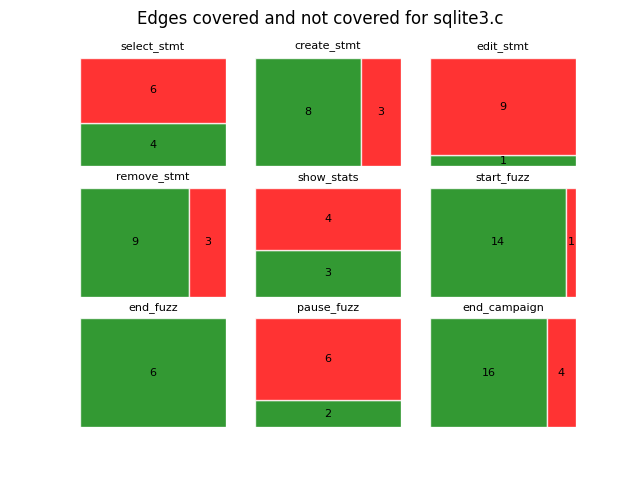
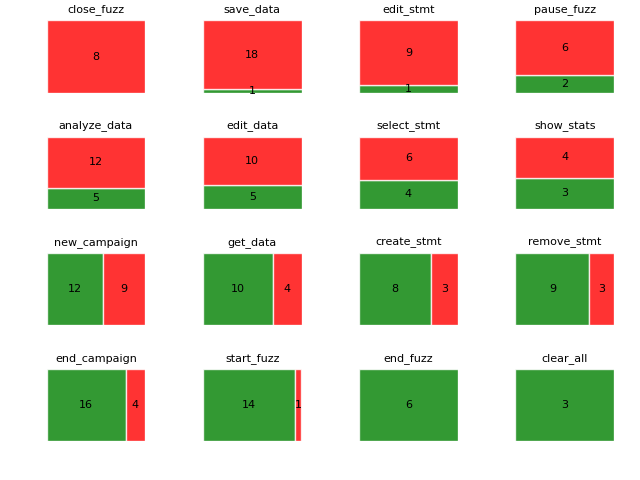
Fix plot sorting, adjust plots in 2x2 matrix order

diff --git a/treemaps/treemaps_fuzzing.py b/treemaps/treemaps_fuzzing.py
@@ -1,4 +1,5 @@
 import sys
+import math
 import matplotlib
 import matplotlib.pyplot as plt
 import pandas as pd
@@ -8,30 +9,47 @@ import squarify
 COVERAGE_DATA_FILE = sys.argv[1]
 
 def plotGraph(values, label, ax, fileName):
-    ax.axis('off')
     ax.set_title(label, fontsize='8')
-    squarify.plot(sizes=values, alpha=0.8, edgecolor="white", value=values, ax=ax, color=['g', 'r'], text_kwargs={'fontsize':8})
-    plt.savefig(fileName)
-    
+    is_value_covered_0 = values[0] == 0
+    is_value_not_covered_0 = values[1] == 0
+    values = [values[1]] if is_value_covered_0 else [values[0]] if is_value_not_covered_0 else values
+    colors = ['r'] if is_value_covered_0 else ['g'] if is_value_not_covered_0 else ['g', 'r']
+    # plt.subplots_adjust(right=0.9)
+    squarify.plot(sizes=values, alpha=0.8, edgecolor="white", value=values, ax=ax, color=colors, text_kwargs={'fontsize':8})
+    # plt.savefig(fileName)
+
 # Get edge data
 df = pd.read_csv(COVERAGE_DATA_FILE, engine='python')
 df.columns = df.columns.str.replace('# ', '')
 df = df[df['edges_total'] != 0]
+df['edges_not_covered'] = df['edges_total'] - df['edges_covered']
+df['percent_covered'] = df['edges_covered']/df['edges_total']
+df['percent_not_covered'] = df['edges_not_covered']/df['edges_total']
+df = df.sort_values('percent_not_covered', ascending=False)
+
 edges_covered = df['edges_covered'].values
 edges_covered_copy = edges_covered[edges_covered != 0]
 edges_total = df['edges_total'].values
-edges_not_covered = edges_total - edges_covered
+edges_not_covered = df['edges_not_covered'].values
 labels = df['function'].values
 file_name = df['file'].iloc[0]
+n_rows_df = len(df)
 
 # Treemap: edges covered in green, edges not covered in red
-fig, axs = plt.subplots(3, 3)
+n_rows_plot = round(math.sqrt(n_rows_df))
+n_columns_plot = math.ceil(math.sqrt(n_rows_df))
+fig, axs = plt.subplots(n_rows_plot, n_columns_plot, constrained_layout=True)
+# fig.tight_layout()
+
+for ax1 in axs:
+    for ax2 in ax1:
+        ax2.axis('off')
 fig.suptitle('Edges covered and not covered for ' + file_name)
 
-for index, value in enumerate(edges_covered):
-    v_not_covered = edges_not_covered[index]
-    value_to_add = [value] if (v_not_covered == 0) else [value, v_not_covered]
-    plotGraph(value_to_add, labels[index], axs[index // 3][index % 3], 'edge_coverage_treemap')
+for index, value_covered in enumerate(edges_covered):
+    value_not_covered = edges_not_covered[index]
+    values = [value_covered, value_not_covered]
+    plotGraph(values, labels[index], axs[index // n_columns_plot][index % n_columns_plot], 'edge_coverage_treemap')
 
 # # Treemap: percentage of edges covered
 # percent_edges_covered = (edges_covered_copy/edges_total)*100
